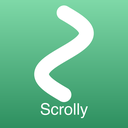
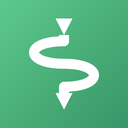
feat: 앱 아이콘 텍스트 제거 + GitHub README 업데이트
- Icon-1024.png: "Scrolly" 텍스트 제거, S 심볼 60px 하단 이동
- Info.plist: ITSAppUsesNonExemptEncryption = false 추가
- README.md: 최신 앱 소개 내용으로 업데이트
- process.md: 2026-02-28 아이콘 수정 내역 추가
- document.md: 업데이트

diff --git a/README.md b/README.md
@@ -1,17 +1,59 @@
-# auto_web_scroller
+# Scrolly — Auto Scroller for Safari
 
-A new Flutter project.
+**Scrolly** is an auto-scroll extension for Safari on iPhone and iPad.
+Scroll any webpage automatically — hands-free.
 
-## Getting Started
+[![Available on the App Store](https://img.shields.io/badge/App_Store-Download-blue?logo=apple)](https://apps.apple.com/app/id6759715338)
 
-This project is a starting point for a Flutter application.
+---
 
-A few resources to get you started if this is your first Flutter project:
+## Features
 
-- [Learn Flutter](https://docs.flutter.dev/get-started/learn-flutter)
-- [Write your first Flutter app](https://docs.flutter.dev/get-started/codelab)
-- [Flutter learning resources](https://docs.flutter.dev/reference/learning-resources)
+- **One-Tap Start / Stop** — Toggle auto-scroll instantly from the Safari extension popup
+- **Adjustable Speed (1x – 20x)** — Drag the slider to your perfect reading pace
+- **Direction Control** — Scroll down ↓ or up ↑
+- **Loop Mode** — Jumps back to top when it reaches the bottom
+- **Auto-Pause** — Pauses when you touch the screen, resumes after 3 seconds
+- **Timer (5 – 60 min)** — Stops automatically after the set duration
+- **Gesture Shortcuts** — Double tap to pause/resume, triple tap to reset speed
+- **Floating Widget** — Draggable mini-controller that stays on top of the page
+- **Keep Screen Awake** — Screen stays on while scrolling
 
-For help getting started with Flutter development, view the
-[online documentation](https://docs.flutter.dev/), which offers tutorials,
-samples, guidance on mobile development, and a full API reference.
+**6 Languages:** Korean · English · Japanese · Chinese · French · Spanish
+
+---
+
+## How to Use
+
+1. Install the app and open it once
+2. Go to **Settings → Safari → Extensions → Enable Scrolly**
+3. Open any webpage in Safari
+4. Tap the extension icon in the address bar → select **Scrolly**
+5. Tap ▶ to start scrolling
+
+---
+
+## Support
+
+Having a problem or have a suggestion?
+
+👉 **[Open an Issue](https://github.com/moonkj/Scrolly-App/issues/new)** — Bug reports, feature requests, questions are all welcome.
+
+You can also browse [existing issues](https://github.com/moonkj/Scrolly-App/issues) to see if your question has already been answered.
+
+---
+
+## Privacy
+
+Scrolly collects **no data**. All settings are stored locally on your device.
+No analytics, no tracking, no network requests.
+
+- [Privacy Policy](https://github.com/moonkj/Scrolly-App/blob/main/privacy-policy.md)
+- [Terms of Service](https://github.com/moonkj/Scrolly-App/blob/main/terms-of-service.md)
+
+---
+
+## Requirements
+
+- iOS 16.4 or later
+- iPhone or iPad

diff --git a/document.md b/document.md
@@ -20,15 +20,27 @@
 
 ## 2. 앱 이름 / 부제목
 
-### 앱 이름
+### 앱 이름 (Name, 30자 이내)
 ```
-Scrolly
+Ko: Scrolly - 오토스크롤러
+En: Scrolly - Auto Scroller
+Ja: Scrolly - 自動スクローラー
+Zh: Scrolly - 自动滚屏
+Fr: Scrolly - Défilement Auto
+Es: Scrolly - Desplazamiento Auto
+Hi: Scrolly - ऑटो स्क्रॉलर
 ```
 
 ### 부제목 (Subtitle, 30자 이내)
+> ⚠ "Safari" 상표 문제로 부제목에서도 제거
 ```
-Ko: 자동 스크롤 Safari 확장
-En: Auto Scroll for Safari
+Ko: 웹페이지 자동 스크롤
+En: Auto Scroll Any Web Page
+Ja: ウェブ自動スクロール拡張
+Zh: 自动滚动任意网页
+Fr: Défilement automatique web
+Es: Desplazamiento automático web
+Hi: किसी भी वेब पेज को ऑटो स्क्रॉल
 ```
 
 ---
@@ -635,7 +647,7 @@ En: Initial release — speed, direction, loop, timer, auto-pause
 
 | 항목 | URL | 필수 여부 |
 |------|-----|----------|
-| **지원 URL** | `https://github.com/moonkj/Scrolly-App/issues` | 필수 |
+| **지원 URL** | `https://github.com/moonkj/Scrolly-App` | 필수 |
 | **개인정보 처리방침 URL** | `https://github.com/moonkj/Scrolly-App/blob/main/privacy-policy.md` | 필수 |
 | **마케팅 URL** | `https://github.com/moonkj/Scrolly-App` | 선택 |
 
@@ -643,11 +655,11 @@ En: Initial release — speed, direction, loop, timer, auto-pause
 
 #### 지원 URL
 ```
-https://github.com/moonkj/Scrolly-App/issues
+https://github.com/moonkj/Scrolly-App
 ```
-- GitHub Issues 페이지 — 사용자가 버그 신고, 기능 요청, 문의 가능
-- 별도 계정 없이 누구나 확인 가능 (로그인 없이 읽기 가능)
-- 심사팀도 이 URL로 연락 가능하므로 반드시 접근 가능 상태 유지
+- README.md에 앱 소개 + 지원 안내 (Issues 링크 포함) 작성
+- 심사팀이 방문했을 때 앱 정보와 지원 방법이 명확히 보임
+- ⚠ `/issues`만 단독으로 사용하면 빈 페이지로 보여 1.5 Safety 거절 위험
 
 #### 개인정보 처리방침 URL (Privacy Policy URL)
 ```

diff --git a/process.md b/process.md
@@ -396,6 +396,23 @@
 - 번들 ID(`com.kjmoon.Scrolly`), 타겟 이름, 소스 코드, 앱 기능에는 영향 없음
 - 결과: `~/Desktop/Scrolly_IPA/Scrolly.ipa` (v1.0.0 Build 1)
 
+## 2026-02-28 (앱 아이콘 수정)
+
+### 아이콘 디자인 변경 (Icon-1024.png)
+
+#### 변경 내용
+- **"Scrolly" 텍스트 제거**: 아이콘 하단 텍스트 삭제
+- **S 심볼 위치 조정**: 텍스트 제거로 생긴 여백을 보정하기 위해 60px 아래로 이동
+
+#### 작업 방식
+- Python + Pillow + NumPy 사용
+- 2D 2차 다항식 피팅으로 흰색(S 심볼 + 텍스트) 영역의 그라디언트 배경 복원
+- S 심볼 마스크 추출 (y < 820 기준) 후 60px 이동 합성
+- 백업: `Icon-1024_backup.png`
+
+#### 빌드 및 배포
+- Release 빌드 → 실기기(iPhone Air) 설치 완료
+
 ## 2026-02-26 (App Store Connect 현지화 문서 정비)
 
 ### document.md — 다국어 번역 추가
